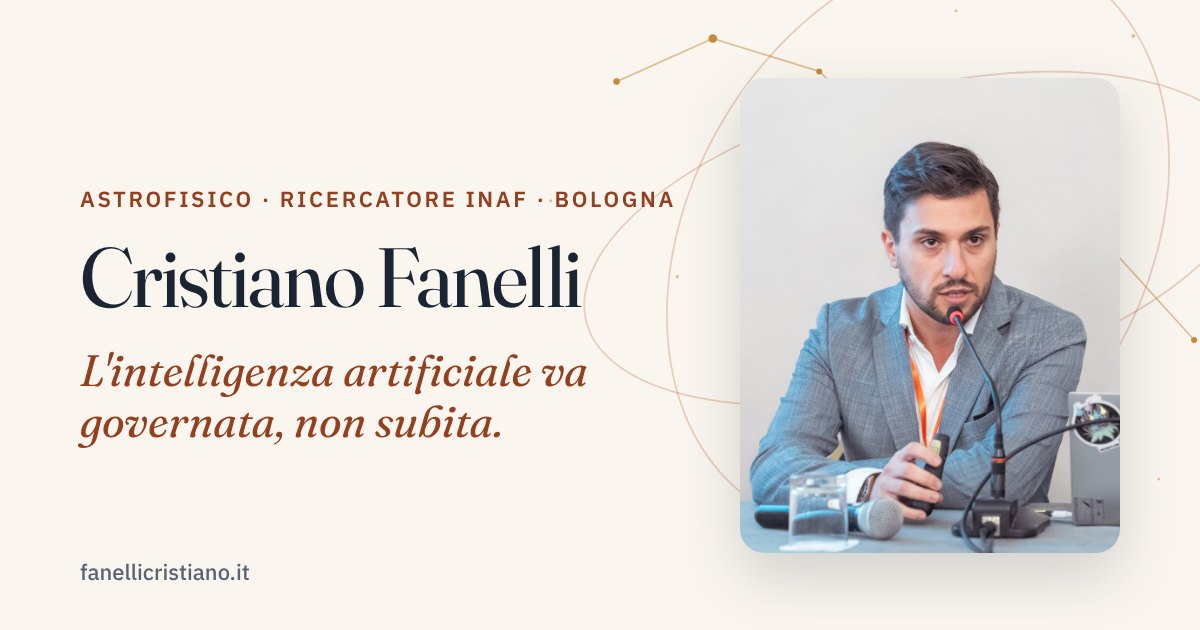
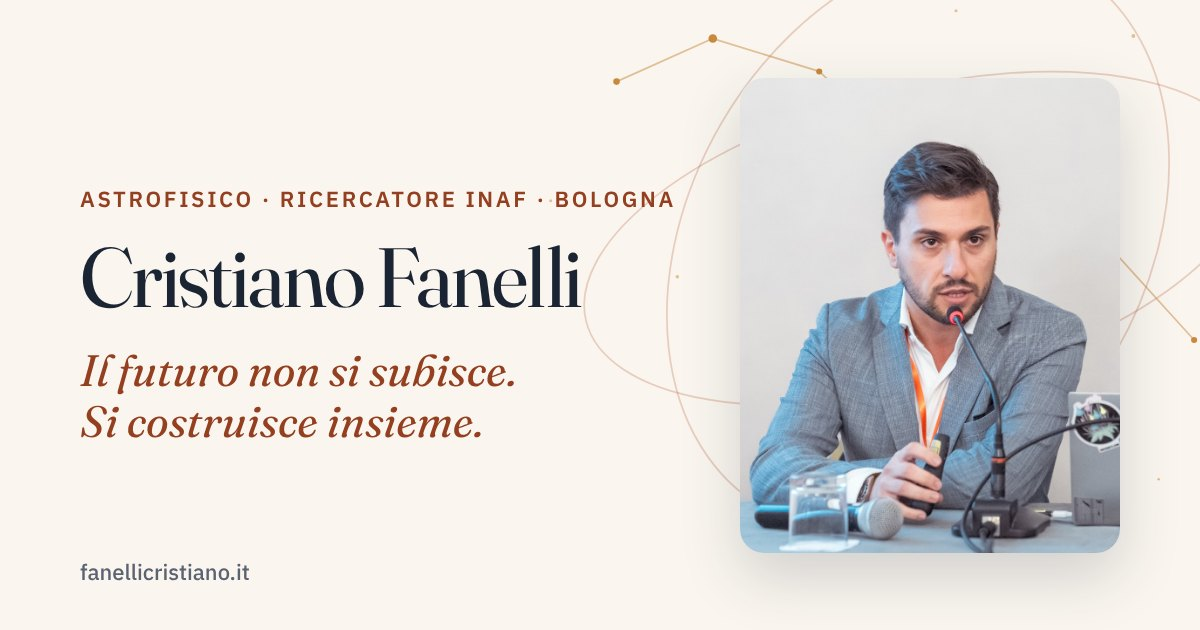
Secondo giro: testi di Cristiano, nuovo claim, M5S in Impegno pubblico
- Home: claim "Il futuro non si subisce. Si costruisce insieme.", valori
  (giustizia, conoscenza, responsabilità), perché mi impegno
- Idee: i cinque temi riscritti con le risposte di Cristiano
- LEOgistic raccontata correttamente: offerta pre-seed da 150.000 euro
  in cambio di quote, declinata per tornare alla ricerca pubblica
- Impegno pubblico: attivista M5S dal 2018, IDIA, Network Giovani, NOVA,
  rappresentanza e volontariato
- Spazio e sicurezza: posizione su militarizzazione e doppio uso,
  DOMìNI/AMIStaDeS/AIAIG con nomi corretti
- CV: un solo finanziamento N2RED, Super Sapiens tra i riconoscimenti
- Contatti: email consulting.fanelli@gmail.com, Instagram, pagine UniBo e INAF
- Nuova immagine di anteprima social

Claude-Session: https://claude.ai/code/session_01Ky8ghPFD2B68RxWKdPv7vH

Changed region(s): [[0.0617, 0.5429, 0.4933, 0.7238]]

diff --git a/index.html b/index.html
@@ -1,7 +1,7 @@
 ---
 layout: default
 title: "Cristiano Fanelli"
-description: "Astrofisico e ricercatore pubblico a Bologna. Intelligenza artificiale, spazio e tecnologie al servizio delle persone: l'IA va governata, non subita."
+description: "Cristiano Fanelli, astrofisico e ricercatore INAF a Bologna. Il futuro non si subisce, si costruisce insieme: conoscenza, giustizia sociale e responsabilità."
 ---
 
 <section class="hero" id="home">
@@ -12,18 +12,19 @@ description: "Astrofisico e ricercatore pubblico a Bologna. Intelligenza artific
 
         <div class="hero-content">
 
-            <p class="eyebrow reveal">Ricercatore INAF · Bologna</p>
+            <p class="eyebrow reveal">Astrofisico · Ricercatore INAF a Bologna</p>
 
             <h1 class="reveal">Cristiano Fanelli</h1>
 
-            <p class="hero-claim reveal">L'intelligenza artificiale va governata, non subita.</p>
+            <p class="hero-claim reveal">Il futuro non si subisce.<br> Si costruisce insieme.</p>
 
             <p class="hero-description reveal">
-                Sono un astrofisico e un ricercatore pubblico a Bologna. Uso l'intelligenza artificiale
-                per studiare le stelle e da anni mi occupo di come IA, dati e spazio cambiano il lavoro,
-                l'ambiente e la sicurezza. Voglio che queste scelte siano comprensibili e fatte
-                nell'interesse di tutti.
+                Sono un astrofisico e lavoro con l'intelligenza artificiale. Credo in un Paese che
+                investe nella conoscenza, in cui il futuro di un ragazzo non dipenda dal conto in
+                banca dei suoi genitori.
             </p>
+
+            <p class="hero-values reveal">Giustizia · Conoscenza · Responsabilità</p>
 
             <div class="hero-actions reveal">
                 <a class="button button-primary" href="{{ '/idee/' | relative_url }}">
@@ -57,10 +58,10 @@ description: "Astrofisico e ricercatore pubblico a Bologna. Intelligenza artific
 <section class="proof" aria-label="In breve">
     <div class="container">
         <ul class="proof-list">
-            <li><strong>Ricerca pubblica</strong>Sono ricercatore all'INAF e mi sono formato all'Università di Bologna, fino al dottorato</li>
+            <li><strong>Ricerca pubblica</strong>Sono ricercatore all'INAF. A Bologna dal 2011, ho studiato lavorando fino al dottorato</li>
             <li><strong>Intelligenza artificiale</strong>Sono responsabile scientifico di un progetto INAF sulle reti neurali</li>
-            <li><strong>Spazio e impresa</strong>Ho co-fondato e guidato una startup bolognese sul traffico spaziale</li>
-            <li><strong>Politiche pubbliche</strong>Ho coordinato un tavolo di lavoro per un documento di proposte sull'IA</li>
+            <li><strong>Spazio e impresa</strong>Ho co-fondato una startup spaziale, tra i 4 vincitori su 83 al Super Sapiens Day 2022</li>
+            <li><strong>Politiche pubbliche</strong>Ho contribuito a scrivere il documento finale di IDIA sull'intelligenza artificiale</li>
         </ul>
     </div>
 </section>
@@ -95,15 +96,23 @@ description: "Astrofisico e ricercatore pubblico a Bologna. Intelligenza artific
 
         <div class="reveal">
             <p class="eyebrow">Perché mi impegno</p>
-            <h2>Le competenze tecniche servono a poco, se restano chiuse in laboratorio.</h2>
+            <h2>La politica deve tornare a occuparsi delle persone e dei loro problemi reali.</h2>
         </div>
 
         <div class="why-text reveal">
-            <p>Sono diventato ricercatore grazie alla scuola e all'università pubblica. Oggi lavoro con tecnologie che stanno cambiando il lavoro, l'ambiente, la sicurezza e perfino la democrazia.</p>
-            <p>Credo che chi ha queste competenze debba metterle al servizio di tutti: spiegarle con parole semplici, aiutare chi decide a scegliere bene, e ricordare che dietro ogni algoritmo ci sono persone.</p>
+            <p>Da ricercatore vedo ogni giorno quanto talento e quante opportunità sprechiamo per mancanza di una visione del futuro.</p>
+            <p>Credo in un Paese che investa nella conoscenza, garantisca dignità al lavoro e non lasci indietro nessuno. Per me fare politica significa ascoltare, partecipare e provare a cambiare concretamente le cose, non limitarsi a criticarle.</p>
             <p><a class="text-link" href="{{ '/chi-sono/' | relative_url }}">Il mio percorso →</a></p>
         </div>
 
+    </div>
+
+    <div class="container">
+        <ul class="values-grid">
+            <li class="reveal"><strong>Giustizia</strong>Le opportunità non devono dipendere dalle condizioni in cui nasciamo.</li>
+            <li class="reveal"><strong>Conoscenza</strong>Scienza, istruzione e pensiero critico come strumenti di emancipazione e progresso.</li>
+            <li class="reveal"><strong>Responsabilità</strong>Ogni scelta di oggi ha conseguenze sulla società che lasceremo ai nostri figli e nipoti.</li>
+        </ul>
     </div>
 </section>
 
@@ -129,7 +138,7 @@ description: "Astrofisico e ricercatore pubblico a Bologna. Intelligenza artific
             </article>
             <article class="work-card reveal">
                 <h3>Divulgazione</h3>
-                <p>Scrivo su Rivista Futura, faccio didattica all'Università di Bologna e insegno in una scuola di geopolitica, perché la scienza diventi uno strumento di cittadinanza.</p>
+                <p>Scrivo su Rivista Futura, faccio didattica all'Università di Bologna e divulgazione ambientale nelle scuole, perché la scienza diventi uno strumento di cittadinanza.</p>
                 <a class="text-link" href="{{ '/scritti/' | relative_url }}">Gli scritti →</a>
             </article>
         </div>

diff --git a/_includes/footer.html b/_includes/footer.html
@@ -6,7 +6,7 @@
             <div class="footer-brand">
                 <h3>Cristiano Fanelli</h3>
                 <p class="role">Astrofisico e ricercatore pubblico a Bologna</p>
-                <p>L'intelligenza artificiale va governata, non subita. Mi occupo di tecnologia, ricerca, spazio e sicurezza, e di cosa cambiano nella vita di tutti.</p>
+                <p>Il futuro non si subisce, si costruisce insieme. Mi occupo di tecnologia, ricerca, clima e sicurezza, e di cosa cambiano nella vita di tutti.</p>
             </div>
 
             <div class="footer-col">
@@ -40,7 +40,7 @@
                     <li><a href="{{ '/blog/' | relative_url }}">Blog</a></li>
                     <li><a href="{{ '/contatti/' | relative_url }}">Contatti</a></li>
                     <li><a href="{{ site.data.profiles.linkedin }}" target="_blank" rel="noopener noreferrer">LinkedIn</a></li>
-                    <li><a href="{{ site.data.profiles.github }}" target="_blank" rel="noopener noreferrer">GitHub</a></li>
+                    <li><a href="{{ site.data.profiles.instagram }}" target="_blank" rel="noopener noreferrer">Instagram</a></li>
                 </ul>
             </div>
 
@@ -52,8 +52,8 @@
                 <a href="{{ site.data.profiles.linkedin }}" target="_blank" rel="noopener noreferrer" aria-label="LinkedIn">
                     <svg width="16" height="16" viewBox="0 0 24 24" fill="currentColor" aria-hidden="true"><path d="M19 3a2 2 0 0 1 2 2v14a2 2 0 0 1-2 2H5a2 2 0 0 1-2-2V5a2 2 0 0 1 2-2h14M8.5 18V10H6v8h2.5M7.25 8.7A1.4 1.4 0 1 0 7.25 6a1.4 1.4 0 0 0 0 2.7M18 18v-4.7c0-2.3-1.5-3.5-3.5-3.5-1 0-2.2.6-2.7 1.5V10h-2.5v8h2.5v-4.5c0-1 .8-1.8 1.8-1.8s1.7.8 1.7 1.8V18H18Z"/></svg>
                 </a>
-                <a href="{{ site.data.profiles.github }}" target="_blank" rel="noopener noreferrer" aria-label="GitHub">
-                    <svg width="16" height="16" viewBox="0 0 24 24" fill="currentColor" aria-hidden="true"><path d="M12 2A10 10 0 0 0 2 12c0 4.42 2.87 8.17 6.84 9.5.5.09.68-.22.68-.48v-1.7c-2.78.6-3.37-1.34-3.37-1.34-.45-1.16-1.11-1.47-1.11-1.47-.9-.62.07-.6.07-.6 1 .07 1.53 1.03 1.53 1.03.9 1.52 2.34 1.08 2.91.83.09-.65.35-1.09.63-1.34-2.22-.25-4.55-1.11-4.55-4.94 0-1.09.39-1.99 1.03-2.69-.1-.25-.45-1.27.1-2.65 0 0 .84-.27 2.75 1.02a9.5 9.5 0 0 1 5 0c1.91-1.29 2.75-1.02 2.75-1.02.55 1.38.2 2.4.1 2.65.64.7 1.03 1.6 1.03 2.69 0 3.84-2.34 4.68-4.57 4.93.36.31.68.92.68 1.85v2.74c0 .27.18.58.69.48A10 10 0 0 0 22 12 10 10 0 0 0 12 2Z"/></svg>
+                <a href="{{ site.data.profiles.instagram }}" target="_blank" rel="noopener noreferrer" aria-label="Instagram">
+                    <svg width="16" height="16" viewBox="0 0 24 24" fill="none" stroke="currentColor" stroke-width="2" stroke-linecap="round" stroke-linejoin="round" aria-hidden="true"><rect x="3" y="3" width="18" height="18" rx="5"/><circle cx="12" cy="12" r="4"/><circle cx="17.5" cy="6.5" r="0.6" fill="currentColor" stroke="none"/></svg>
                 </a>
             </div>
         </div>

diff --git a/assets/css/main.css b/assets/css/main.css
@@ -410,6 +410,15 @@ h4 {
     margin-bottom: 2rem;
 }
 
+.hero-values {
+    margin: -0.6rem 0 2rem;
+    font-size: 0.95rem;
+    font-weight: 600;
+    letter-spacing: 0.08em;
+    text-transform: uppercase;
+    color: var(--ink-muted);
+}
+
 .hero-actions {
     display: flex;
     flex-wrap: wrap;
@@ -593,6 +602,32 @@ h4 {
     font-size: clamp(1.3rem, 2vw, 1.6rem);
     line-height: 1.4;
     color: var(--ink);
+}
+
+/* valori */
+.values-grid {
+    list-style: none;
+    display: grid;
+    grid-template-columns: repeat(3, 1fr);
+    gap: 1.2rem;
+    margin-top: clamp(2.5rem, 5vw, 3.5rem);
+}
+
+.values-grid li {
+    padding: 1.6rem 1.7rem;
+    background: var(--card);
+    border: 1px solid var(--line);
+    border-radius: var(--radius);
+    color: var(--ink-soft);
+}
+
+.values-grid strong {
+    display: block;
+    margin-bottom: 0.4rem;
+    font-family: var(--font-serif);
+    font-size: 1.45rem;
+    font-weight: 500;
+    color: var(--terra-dark);
 }
 
 /* lavoro */
@@ -1785,6 +1820,11 @@ button:focus-visible {
         transform-origin: 50% 22%;
     }
 
+    .hero-values {
+        font-size: 0.8rem;
+        letter-spacing: 0.05em;
+    }
+
     .hero .eyebrow {
         display: none; /* su mobile lo dice gia' la didascalia accanto alla foto */
     }
@@ -1805,7 +1845,8 @@ button:focus-visible {
     }
 
     .why-grid,
-    .work-grid {
+    .work-grid,
+    .values-grid {
         grid-template-columns: 1fr;
     }
 

diff --git a/assets/js/main.js b/assets/js/main.js
@@ -59,8 +59,8 @@
     const emailContainer = document.querySelector("#email-container");
     if (emailReveal && emailContainer) {
         emailReveal.addEventListener("click", () => {
-            const user = ["cristiano", "fanelli"].join(".");
-            const domain = ["inaf", "it"].join(".");
+            const user = ["consulting", "fanelli"].join(".");
+            const domain = ["gmail", "com"].join(".");
             const address = user + "@" + domain;
             const link = document.createElement("a");
             link.href = "mailto:" + address;

diff --git a/_layouts/default.html b/_layouts/default.html
@@ -38,6 +38,9 @@
         "image": "{{ site.url }}/assets/images/cristianofanelli.jpg",
         "sameAs": [
             "{{ site.data.profiles.linkedin }}",
+            "{{ site.data.profiles.instagram }}",
+            "{{ site.data.profiles.unibo }}",
+            "{{ site.data.profiles.inaf }}",
             "{{ site.data.profiles.github }}"
         ]
     }

diff --git a/about.md b/about.md
@@ -4,28 +4,40 @@ title: "Chi sono"
 permalink: /chi-sono/
 redirect_from: /about/
 eyebrow: "Chi sono"
-description: "Cristiano Fanelli, astrofisico e ricercatore pubblico all'INAF di Bologna: percorso, lavoro e impegno pubblico."
+description: "Cristiano Fanelli, astrofisico e ricercatore INAF a Bologna: percorso, lavoro, impegno pubblico e valori."
 intro: "Sono un astrofisico e un ricercatore pubblico. Lavoro all'Istituto Nazionale di Astrofisica, a Bologna, dove sviluppo sistemi di intelligenza artificiale per studiare le stelle."
 ---
 
 ## Il mio percorso
 
-Mi sono diplomato in un istituto tecnico aeronautico. Dal 2011 il mio percorso è a Bologna: all'Università di Bologna ho fatto la laurea in Astronomia, la magistrale in Astrofisica e Cosmologia e il dottorato, concluso nel 2022. Nel frattempo ho frequentato un master in Istituzioni e Politiche Spaziali con l'Agenzia Spaziale Italiana.
+Sono romano. Dopo il diploma all'istituto tecnico aeronautico, nel 2011 mi sono trasferito a Bologna, dove ho studiato lavorando: laurea in Astronomia, magistrale in Astrofisica e Cosmologia e dottorato, concluso nel 2022. Nel frattempo ho frequentato un master in Istituzioni e Politiche Spaziali con l'Agenzia Spaziale Italiana.
 
-Negli ultimi mesi del dottorato ho co-fondato una startup sul traffico spaziale, che ho guidato come amministratore delegato fino al 2023. Nel frattempo ho lavorato al CINECA sul supercalcolo e sono entrato all'INAF: prima come assegnista, oggi come ricercatore a tempo determinato. Conosco quindi da vicino sia le possibilità sia la precarietà di chi fa ricerca in Italia.
+Negli ultimi mesi del dottorato ho co-fondato LEOgistic, una startup che usava l'intelligenza artificiale per monitorare i detriti spaziali e prevenire le collisioni in orbita. Il progetto è stato tra i 4 vincitori su 83 al Super Sapiens Day 2022 e ha ricevuto un'offerta di investimento di 150.000 euro, in cambio di quote e di un posto nel consiglio di amministrazione. Ho scelto di rinunciare e di chiudere l'azienda per tornare alla ricerca pubblica.
+
+Nel frattempo ho lavorato al CINECA sul supercalcolo e sono entrato all'INAF: prima come assegnista, oggi come ricercatore a tempo determinato. Conosco quindi da vicino sia le possibilità sia la precarietà di chi fa ricerca in Italia.
 
 ## Cosa faccio oggi
 
 - **Ricerca.** Sviluppo reti neurali che leggono gli spettri delle stelle, cioè la loro luce scomposta nei colori, per ricavarne composizione chimica, temperatura e altre proprietà. Sono responsabile scientifico di un progetto INAF su questi metodi.
-- **Spazio e sicurezza.** Studio come osservare e proteggere satelliti e infrastrutture spaziali, da cui dipendono navigatori, meteo e comunicazioni. Insegno Space Intelligence e aerospazio in una scuola di geopolitica.
-- **Divulgazione.** Scrivo su Rivista Futura e faccio didattica all'Università di Bologna.
-- **Impegno pubblico.** Ho coordinato un tavolo di lavoro per un documento di proposte sull'IA e sono stato rappresentante dei dottorandi nel mio Dipartimento. [Leggi di più](/impegno-pubblico/).
+- **Spazio e sicurezza.** Studio come osservare e proteggere satelliti e infrastrutture spaziali. Propongo percorsi formativi su economia dello spazio, Space Intelligence e geopolitica dello spazio alla scuola DOMìNI e sono nel Consiglio Direttivo dell'AIAIG.
+- **Divulgazione.** Scrivo su Rivista Futura, faccio didattica all'Università di Bologna e divulgazione ambientale nelle scuole medie e superiori.
+- **Impegno politico.** Sono attivista del Movimento 5 Stelle dal 2018: ho contribuito a scrivere il documento finale di IDIA sull'intelligenza artificiale e coordinato la task force su IA e tecnologie emergenti del Network Giovani. [Leggi di più](/impegno-pubblico/).
+
+## Fuori dal lavoro
+
+Sono stato volontario per Special Olympics a Roma, nel 2008, e alla Certosa di Bologna, tra chi si prende cura del cimitero monumentale. Sono stato rappresentante d'istituto alle superiori e, durante il dottorato, rappresentante di studenti e dottorandi in Giunta e Consiglio di Dipartimento. Sono iscritto all'ADI, l'Associazione Dottorandi e Dottori di Ricerca in Italia.
 
 ## Perché mi impegno
 
-Sono diventato ricercatore grazie alla scuola e all'università pubblica. Oggi lavoro con tecnologie che stanno cambiando il lavoro, l'ambiente, la sicurezza e perfino la democrazia.
+Mi impegno perché credo che la politica debba tornare a occuparsi delle persone e dei loro problemi reali. Da ricercatore, vedo ogni giorno quanto talento e quante opportunità sprechiamo per mancanza di una visione del futuro.
 
-Credo che chi ha queste competenze debba metterle al servizio di tutti: spiegarle con parole semplici, aiutare chi decide a scegliere bene, e ricordare che dietro ogni algoritmo ci sono persone.
+Credo in un Paese che investa nella conoscenza, garantisca dignità al lavoro e non lasci indietro nessuno. Per me fare politica significa ascoltare, partecipare e provare a cambiare concretamente le cose, non limitarsi a criticarle.
+
+## I miei valori
+
+- **Giustizia**, perché le opportunità non devono dipendere dalle condizioni in cui nasciamo.
+- **Conoscenza**, perché credo nella scienza, nell'istruzione e nel pensiero critico come strumenti di emancipazione e progresso.
+- **Responsabilità**, perché ogni scelta che facciamo oggi ha conseguenze sulla società che lasceremo ai nostri figli e nipoti.
 
 <div class="page-links">
     <a class="button button-primary" href="{{ '/idee/' | relative_url }}">Le mie idee <span class="arrow" aria-hidden="true">→</span></a>

diff --git a/public-activity.md b/public-activity.md
@@ -5,21 +5,33 @@ permalink: /impegno-pubblico/
 redirect_from: /attivita-pubblica/
 section: /chi-sono/
 eyebrow: "Impegno pubblico"
-description: "Politiche pubbliche sull'intelligenza artificiale, rappresentanza nella ricerca e divulgazione: l'impegno pubblico di Cristiano Fanelli."
-intro: "Partecipo al dibattito pubblico su tecnologia, ricerca e società con un'idea semplice: le competenze tecniche devono servire a scelte migliori per tutti."
+description: "L'impegno politico e civico di Cristiano Fanelli: attivista del Movimento 5 Stelle dal 2018, IDIA, Network Giovani, NOVA, rappresentanza e volontariato."
+intro: "Credo in una politica che non si limiti a parlare ai cittadini, ma che sappia ascoltarli, coinvolgerli e costruire proposte insieme a loro."
 ---
 
-## Politiche sull'intelligenza artificiale
+## Impegno politico
 
-Nel 2023 ho fatto parte, come esperto, della delegazione IDIA (Dentro l'Intelligenza Artificiale) che ha redatto un documento di proposte sull'IA aperto alla consultazione pubblica. Ho coordinato il tavolo di lavoro su sviluppo, ricerca e investimenti.
+Sono attivista del Movimento 5 Stelle dal 2018. Mi riconosco nei suoi valori: partecipazione democratica, giustizia sociale, bene collettivo. Credo però che partiti e movimenti debbano essere strumenti al servizio delle persone, e non viceversa: militare significa anche contribuire a far crescere il proprio movimento, con le proprie competenze e, quando serve, con spirito critico.
 
-## Rappresentanza nella ricerca
+- **Primo referente giovani del Movimento 5 Stelle a Bologna.**
+- **IDIA, Dentro l'Intelligenza Artificiale (2023).** All'evento nazionale promosso dal Movimento 5 Stelle ho coordinato, come esperto, il gruppo di lavoro su ricerca, sviluppo e investimenti. Ho scritto il documento finale insieme a due deputati e a un'esperta ex senatrice: un documento di indirizzo politico poi aperto alla consultazione pubblica. [Leggi il documento "Gli orizzonti dell'Intelligenza Artificiale"](https://www.movimento5stelle.eu/Documento-finale-IDIA.pdf).
+- **IDIA, seconda edizione (Napoli).** Ho coordinato una task force che ha partecipato all'organizzazione e ho tenuto un intervento per il Network Giovani.
+- **Network Giovani.** Coordino la task force su intelligenza artificiale e tecnologie emergenti. Sono stato uno dei volti del Network Giovani nella campagna per il No al referendum sulla giustizia.
+- **NOVA.** Ho fatto parte del team che ha elaborato le prime fasi dei report del percorso partecipativo NOVA, sono stato nello staff in tutte le sue fasi e facilitatore centrale dell'incontro in Open Space Technology di NOVA a Bologna.
 
-Dal 2019 al 2021 sono stato rappresentante dei dottorandi nella Giunta e nel Consiglio di Dipartimento, all'Università di Bologna, e ho organizzato i seminari settimanali dei dottorandi. Conosco dall'interno i problemi di chi fa ricerca all'inizio della carriera.
+Per me l'appartenenza politica non è un fine, ma un mezzo per trasformare le idee in cambiamenti concreti. Le competenze individuali acquistano valore quando vengono messe al servizio di un progetto collettivo.
+
+## Rappresentanza
+
+Sono stato rappresentante d'istituto all'ultimo anno delle superiori. Dal 2019 al 2022 sono stato rappresentante di studenti e dottorandi nella Giunta e nel Consiglio del Dipartimento di Fisica e Astronomia dell'Università di Bologna, e ho organizzato i seminari settimanali dei dottorandi. Sono iscritto all'ADI, l'Associazione Dottorandi e Dottori di Ricerca in Italia.
+
+## Volontariato
+
+Sono stato volontario per Special Olympics a Roma, nel 2008, e alla Certosa di Bologna, tra chi si prende cura del cimitero monumentale.
 
 ## Divulgazione
 
-Scrivo su **Rivista Futura** e su quaderni di analisi geopolitica, per rendere accessibili temi tecnici complessi e mostrare cosa significano per la vita di tutti. Gli articoli sono raccolti in [Scritti](/scritti/).
+Scrivo su **Rivista Futura** e su quaderni di analisi geopolitica, per rendere accessibili temi tecnici complessi e mostrare cosa significano per la vita di tutti. Faccio divulgazione e sensibilizzazione ambientale nelle scuole medie e superiori. Gli articoli sono raccolti in [Scritti](/scritti/).
 
 <div class="page-links">
     <a class="button button-primary" href="{{ '/idee/' | relative_url }}">Le mie idee <span class="arrow" aria-hidden="true">→</span></a>

diff --git a/intelligence.md b/intelligence.md
@@ -22,9 +22,14 @@ Intorno alla Terra girano migliaia di satelliti attivi e una quantità crescente
 
 ## Come la penso
 
-Lo spazio è un bene comune. Deve restare un luogo di cooperazione e di usi pacifici, regolato da norme internazionali e protetto dai detriti come proteggiamo l'aria e l'acqua. L'Europa deve avere le proprie capacità, perché i servizi da cui dipendono cittadini, ospedali e imprese non siano in mano a pochi attori esterni.
+Da astrofisico conosco bene il valore strategico dello spazio, ma credo che non debba diventare un nuovo terreno di scontro militare. Bisogna distinguere tra l'uso delle infrastrutture spaziali per la sicurezza e la difesa, che considero legittimo, e una corsa agli armamenti nello spazio, che è un'altra cosa.
+
+Le tecnologie a doppio uso, come i satelliti per le comunicazioni, la navigazione e l'osservazione della Terra, sono una risorsa fondamentale, ma devono essere accompagnate da regole internazionali, trasparenza e controllo democratico.
+
+**La vera sfida è garantire la nostra autonomia tecnologica e la sicurezza delle infrastrutture strategiche senza alimentare nuove escalation militari.** Lo spazio deve rimanere un patrimonio dell'umanità, un luogo di ricerca, cooperazione e sviluppo pacifico, da preservare anche per le generazioni future.
 
 ## Dove insegno e collaboro
 
-- **DOMìNI, Scuola di Geopolitica** (Roma): sono docente di Space Intelligence e aerospazio, cioè dello studio di ciò che accade nello spazio e delle sue conseguenze per la sicurezza e l'economia.
-- **AIAIG, Associazione Analisti di Intelligence e Geopolitica**: un'associazione di analisti e studiosi in cui sono consigliere direttivo e coordino le attività di Space Intelligence.
+- **DOMìNI, Scuola di Analisi Geopolitica** del Centro Studi AMIStaDeS: propongo e tengo percorsi formativi su economia dello spazio (Space Economy), Space Intelligence e geopolitica dello spazio.
+- **Centro Studi AMIStaDeS**, centro studi indipendente di analisi geopolitica e relazioni internazionali: ho svolto attività di analisi e formazione e ho curato un modulo sulle tecniche di analisi strutturata per il progetto europeo Erasmus+ ANALYST.
+- **AIAIG, Associazione Italiana Analisti di Intelligence e Geopolitica**: associazione professionale dedicata alla formazione e alla tutela degli analisti. Sono membro del Consiglio Direttivo.

diff --git a/teaching.md b/teaching.md
@@ -11,13 +11,15 @@ intro: "Spiegare la scienza e la tecnologia a studenti, professionisti e cittadi
 
 ## Insegnamento
 
-- **Docente di Space Intelligence e aerospazio**, DOMìNI Scuola di Geopolitica, Roma (dal 2024).
+- **Percorsi su economia dello spazio, Space Intelligence e geopolitica dello spazio**, DOMìNI, Scuola di Analisi Geopolitica del Centro Studi AMIStaDeS (dal 2024).
+- **Modulo sulle tecniche di analisi strutturata**, progetto europeo Erasmus+ ANALYST, Centro Studi AMIStaDeS.
 - **Tutor di Computational Astrophysics and Statistics**, laurea magistrale in Astrofisica e Cosmologia, Università di Bologna (dal 2023).
 - **Tutor di Ottica Astronomica**, laurea in Astronomia, Università di Bologna (2019–2022).
 - **Tutor del master "Istituzioni e Politiche Spaziali"**, SIOI e Agenzia Spaziale Italiana, Roma (2018).
 
 ## Divulgazione e incontri
 
+- Divulgazione e sensibilizzazione ambientale nelle scuole medie e superiori.
 - Articoli di divulgazione su astrofisica, intelligenza artificiale e spazio per Rivista Futura. [Leggi gli scritti](/scritti/).
 - Progettazione dei contenuti di un percorso formativo su spazio, tecnologia e analisi strategica.
 - Organizzazione dei seminari settimanali dei dottorandi all'Università di Bologna (2019–2021).

diff --git a/contact.md b/contact.md
@@ -17,4 +17,6 @@ intro: "Per incontri pubblici, scuole, dibattiti, interviste o collaborazioni, s
 ## Dove trovarmi
 
 - [LinkedIn](https://www.linkedin.com/in/cristiano-fanelli-b881859a)
-- [GitHub](https://github.com/CrisWat)
+- [Instagram](https://www.instagram.com/cris_f91/)
+- [Pagina personale all'Università di Bologna](https://www.unibo.it/sitoweb/cristiano.fanelli3/)
+- [Pagina personale all'INAF, Osservatorio di Astrofisica e Scienza dello Spazio di Bologna](https://www.oas.inaf.it/en/user/cristiano.fanelli/)
